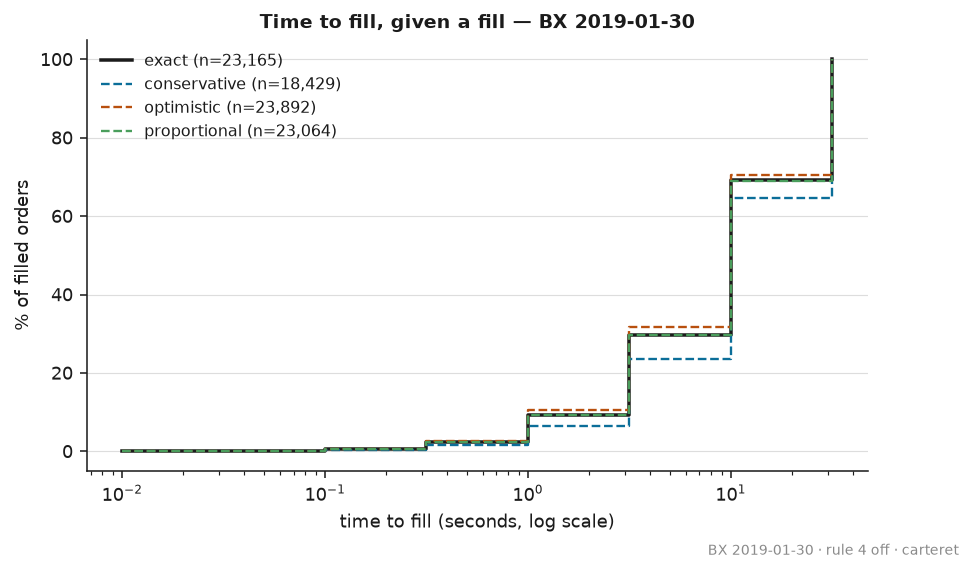
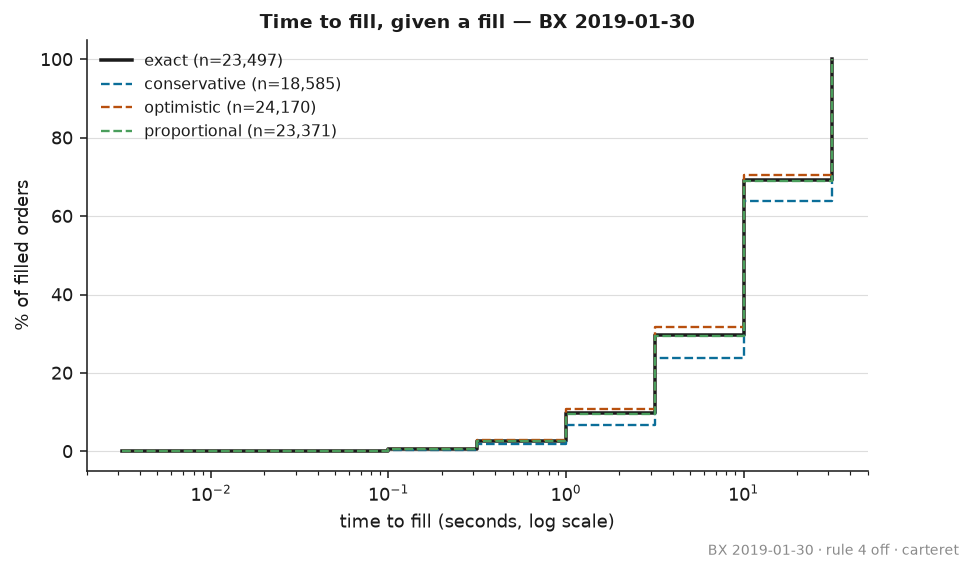
research: make synthetic order placement reproducible across standard libraries
The queue simulator's tests passed under Clang and failed under GCC. Cause:
std::mt19937_64 is specified to produce one exact sequence, but the
distributions built on it are not. libstdc++ and libc++ consume the engine
differently, so the same seed placed synthetic orders at different times --
and the study's published numbers would have depended on which standard
library produced them.

Sampling is now written out: inverse-transform exponential from a 53-bit
uniform, and modulo reduction for the symbol draw, whose n/2^64 bias is far
below any effect this study can resolve. Both compilers now agree.

That change also exposed a weakness in the tests. Each scripted event sequence
is written for a synthetic bid, but the side came from the generator, so
altering how many values the sampler consumed silently flipped it and broke
every assertion for a reason unrelated to the rule under test. The side is now
fixed by configuration in the tests.

Re-running the study on a different placement sequence moved the headline
numbers by tenths of a point and changed no conclusion: conservative
attribution is 20.9% low pooled and 56.7% low deep in the queue, and 66% more
pessimistic on value, with 79% of its fills trade-throughs against exact's
49%. README.md and records 029 and 030 carry the current run's figures.

diff --git a/include/carteret/queue_sim.hpp b/include/carteret/queue_sim.hpp
@@ -53,6 +53,7 @@
 #include "reference_book.hpp"
 
 #include <array>
+#include <cmath>
 #include <cstdint>
 #include <random>
 #include <unordered_map>
@@ -103,6 +104,13 @@ struct QueueSimConfig {
     // value statistics. A restricted universe is the usual design and is what
     // makes a pooled value figure interpretable.
     std::vector<std::uint16_t> universe;
+    // Forces every synthetic order to one side. Zero means a random side,
+    // which is the study's design. The tests set it, because a scripted
+    // event sequence is written against one side and must not depend on a
+    // draw from the generator: changing how many values the sampler consumes
+    // would otherwise silently flip the side and break every assertion for a
+    // reason that has nothing to do with the rule under test.
+    unsigned char force_side = 0;
     std::uint64_t start_ns = 34'200'000'000'000ULL; // 09:30:00
     std::uint64_t end_ns = 57'600'000'000'000ULL;   // 16:00:00
     std::size_t max_concurrent = 4096;
@@ -524,10 +532,35 @@ private:
         }
     }
 
+    // Sampling is written out rather than taken from <random>'s
+    // distributions. std::mt19937_64 is specified to produce one exact
+    // sequence, but the DISTRIBUTIONS are not: libstdc++ and libc++ consume
+    // its output differently, so the same seed places synthetic orders at
+    // different times under the two. That made this file's tests pass under
+    // Clang and fail under GCC, and it would have made the study's published
+    // numbers depend on which standard library produced them.
+    //
+    // Inverse-transform exponential: for u uniform on [0, 1),
+    // -mean * log(1 - u) is exponential with that mean. log1p(-u) is used
+    // rather than log(1 - u) because u can be small enough for the
+    // subtraction to lose precision.
+    [[nodiscard]] double uniform01() noexcept {
+        // 53 bits from the top of the draw: the standard construction for a
+        // double on [0, 1).
+        return static_cast<double>(rng_() >> 11) * 0x1.0p-53;
+    }
+
     std::uint64_t sample_gap() {
-        std::exponential_distribution<double> d(1.0 /
-                                                static_cast<double>(cfg_.mean_interarrival_ns));
-        return static_cast<std::uint64_t>(d(rng_)) + 1u;
+        const double gap =
+            -static_cast<double>(cfg_.mean_interarrival_ns) * std::log1p(-uniform01());
+        return static_cast<std::uint64_t>(gap) + 1u;
+    }
+
+    // Modulo reduction. Its bias is n / 2^64, far below any effect this study
+    // could resolve, and unlike std::uniform_int_distribution it is identical
+    // on every implementation.
+    [[nodiscard]] std::size_t pick(std::size_t n) noexcept {
+        return static_cast<std::size_t>(rng_() % n);
     }
 
     // Places one synthetic order: a random symbol from those currently
@@ -543,8 +576,7 @@ private:
             ++skipped_;
             return;
         }
-        const std::uint16_t locate = two_sided_[std::uniform_int_distribution<std::size_t>(
-            0, two_sided_.size() - 1)(rng_)];
+        const std::uint16_t locate = two_sided_[pick(two_sided_.size())];
         const RefSymbol* sym = book_.symbol(locate);
         if (!sym || !sym->has_bid() || !sym->has_ask()) {
             ++skipped_;
@@ -553,7 +585,7 @@ private:
 
         SyntheticOrder o;
         o.locate = locate;
-        o.side = (rng_() & 1u) ? kBuy : kSell;
+        o.side = cfg_.force_side ? cfg_.force_side : ((rng_() & 1u) ? kBuy : kSell);
         o.price = (o.side == kBuy) ? sym->best_bid() : sym->best_ask();
         o.size = cfg_.order_size;
         o.entered_ts = ts;

diff --git a/tests/test_queue_sim.cpp b/tests/test_queue_sim.cpp
@@ -102,6 +102,9 @@ QueueSimConfig one_placement(std::uint64_t placement_offset_ns, bool rule4 = fal
     cfg.max_life_ns = 300'000'000'000ULL; // long enough not to interfere
     cfg.rule4_non_displayed_fills = rule4;
     cfg.order_size = 100;
+    // Every script below is written for a synthetic BID. Fixing the side here
+    // keeps the tests independent of how many values the sampler draws.
+    cfg.force_side = kBuy;
     return cfg;
 }
 
@@ -385,6 +388,7 @@ void test_all_models_see_the_same_placements() {
     cfg.end_ns = kT0 + 200'000'000ULL;
     cfg.mean_interarrival_ns = 10'000'000ULL;
     cfg.max_life_ns = 300'000'000'000ULL;
+    cfg.force_side = kBuy;
 
     QueueSimulator sim = s.run(cfg);
     CHECK(sim.placements() > 5);

diff --git a/README.md b/README.md
@@ -159,7 +159,7 @@ approximation** departs from exact position, on real US-equity ITCH, with the
 fill rules fixed in advance (`docs/design.md` record 020) and cited by number
 from the pre-registration.
 
-93,057 synthetic orders, one round lot each, placed at the inside of the 50
+93,525 synthetic orders, one round lot each, placed at the inside of the 50
 busiest symbols at random times through `20190130.BX_ITCH_50`, cancelled after
 60 seconds if unfilled. All four models see the identical placements and the
 identical executed volume; they differ **only** in how a cancel at the price
@@ -169,27 +169,27 @@ is attributed, which is what isolates the bias.
 
 | Model | Fill rate | Bias vs exact | Median time to fill |
 |---|---:|---:|---:|
-| **Exact (market-by-order)** | **24.89%** | — | 18.1 s |
-| Conservative | 19.80% | **−20.4%** | 21.0 s |
-| Optimistic | 25.67% | +3.1% | 17.2 s |
-| Proportional | 24.78% | −0.4% | 18.1 s |
+| **Exact (market-by-order)** | **25.12%** | — | 18.1 s |
+| Conservative | 19.87% | **−20.9%** | 21.2 s |
+| Optimistic | 25.84% | +2.9% | 17.2 s |
+| Proportional | 24.99% | −0.5% | 18.2 s |
 
 ### The bias is small in aggregate and severe where it matters
 
-Pooled, the proportional model is almost unbiased (−0.4%) and even the
+Pooled, the proportional model is almost unbiased (−0.5%) and even the
 optimistic one is only 3% high. That aggregate hides the result:
 
 | Shares ahead at entry | Exact | Conservative | Optimistic | Proportional |
 |---|---:|---:|---:|---:|
-| 0–99 | 33.9% | −5.7% | +6.6% | −0.6% |
-| 100–499 | 26.4% | −17.5% | +2.0% | −0.5% |
-| 500–1,999 | 19.4% | −22.2% | +4.2% | +0.1% |
-| 2,000–9,999 | 25.4% | −45.8% | +10.6% | −0.3% |
-| 10,000–49,999 | 28.3% | −59.8% | +11.1% | −2.1% |
+| 0–99 | 34.8% | −6.2% | +2.8% | +0.3% |
+| 100–499 | 26.5% | −17.9% | +1.9% | −0.5% |
+| 500–1,999 | 19.5% | −23.8% | +3.6% | −0.4% |
+| 2,000–9,999 | 26.3% | −44.0% | +9.2% | −1.5% |
+| 10,000–49,999 | 27.7% | −56.7% | +16.2% | +2.2% |
 
 The conservative model — the cautious choice, the one a backtest reaches for
 to avoid overstating fills — is the worst, and it gets worse the deeper the
-queue, reaching a **60% understatement** at the back. Deep in the queue almost
+queue, reaching a **57% understatement** at the back. Deep in the queue almost
 every fill arrives through cancellation of the orders in front, and
 conservative assumes by construction that cancellation never happens ahead.
 
@@ -206,19 +206,19 @@ enough to give that edge back, and −1 means it moved twice as far.
 
 | Model | 1 s | 10 s | 60 s | Trade-through share of fills |
 |---|---:|---:|---:|---:|
-| Exact | −0.92 | −0.81 | −0.69 | 50% |
-| Conservative | −1.42 | −1.17 | −1.10 | 80% |
-| Optimistic | −0.91 | −0.77 | −0.62 | 46% |
-| Proportional | −0.93 | −0.82 | −0.70 | 50% |
+| Exact | −0.77 | −0.61 | −0.56 | 49% |
+| Conservative | −1.28 | −1.01 | −1.06 | 79% |
+| Optimistic | −0.72 | −0.58 | −0.51 | 46% |
+| Proportional | −0.79 | −0.62 | −0.57 | 50% |
 
 Every model is negative at every horizon: on this venue and session a passive
 fill at the inside is adversely selected by more than the half-spread it
 earns, before any fee. That is the expected direction and it is worth stating
 plainly, because it is the number a maker strategy has to overcome.
 
-The conservative model is 54% more pessimistic than exact at one second, and
-the mechanism is visible in the fill reasons: **80% of its fills are
-trade-throughs against 50% for exact**. Refusing to advance the queue on
+The conservative model is 66% more pessimistic than exact at one second, and
+the mechanism is visible in the fill reasons: **79% of its fills are
+trade-throughs against 49% for exact**. Refusing to advance the queue on
 cancels means it only ever fills when the market runs through the level — and
 those are precisely the adversely selected fills. So the conservative model is
 biased twice, in the same direction: it under-reports how often a passive
@@ -232,8 +232,8 @@ study runs twice from the same seed.
 
 | | Exact fill rate | Conservative bias |
 |---|---:|---:|
-| Rule 4 off | 24.89% | −20.4% |
-| Rule 4 on | 25.57% | −18.2% |
+| Rule 4 off | 25.12% | −20.9% |
+| Rule 4 on | 25.82% | −18.6% |
 
 Enabling it lifts every fill rate by roughly 0.7 percentage points and does
 not change any conclusion above.

diff --git a/docs/design.md b/docs/design.md
@@ -1021,9 +1021,9 @@ meaningful in half-spreads, since a tick means a different fraction of the
 spread on each.
 
 **Evidence.** With the liquid universe and the normalised scale, exact-model
-value is −0.92 half-spreads at one second, decaying to −0.69 at sixty
-seconds; the conservative model reports −1.42, and its fill-reason breakdown
-(80% trade-throughs against exact's 50%) accounts for the gap.
+value is −0.77 half-spreads at one second, decaying to −0.56 at sixty
+seconds; the conservative model reports −1.28, and its fill-reason breakdown
+(79% trade-throughs against exact's 49%) accounts for the gap.
 
 ---
 
@@ -1041,20 +1041,19 @@ it is what a backtest reaches for when it wants to avoid flattering itself.
 why, so that the cautious choice is not made by default on the grounds that
 caution is free.
 
-**Evidence.** On `20190130.BX_ITCH_50`, 93,057 placements at the inside of the
+**Evidence.** On `20190130.BX_ITCH_50`, 93,525 placements at the inside of the
 50 busiest symbols, against exact market-by-order position:
 
-- Fill rate 19.80% against exact 24.89%: **20.4% low** pooled, and
-  monotonically worse with queue depth — 5.7% low at the front of the queue,
-  **59.8% low** with 10,000 or more shares ahead. Deep in the queue almost
-  every fill arrives through cancellation of the orders in front, which this
-  model assumes never happens.
-- Value −1.42 half-spreads at one second against exact −0.92: **54% more
+- Fill rate 19.87% against exact 25.12%: **20.9% low** pooled, and worse with
+  queue depth — 6.2% low at the front of the queue, **56.7% low** with 10,000
+  or more shares ahead. Deep in the queue almost every fill arrives through
+  cancellation of the orders in front, which this model assumes never happens.
+- Value −1.28 half-spreads at one second against exact −0.77: **66% more
   pessimistic**.
 
 The two are the same mechanism. Refusing to advance the queue on cancels means
-the model only ever fills when the market runs through the level: 80% of its
-fills are trade-throughs, against 50% for exact. Trade-through fills are
+the model only ever fills when the market runs through the level: 79% of its
+fills are trade-throughs, against 49% for exact. Trade-through fills are
 precisely the adversely selected ones, so the surviving sample is the worst of
 the real one. The model under-reports how often a passive order fills and
 over-reports how badly it does when it fills.
